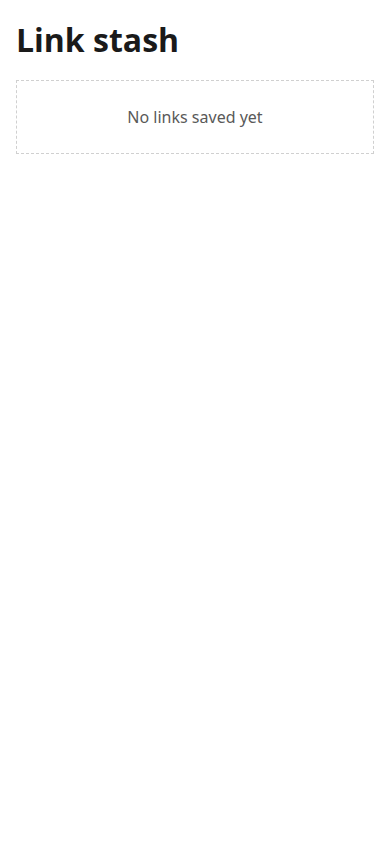
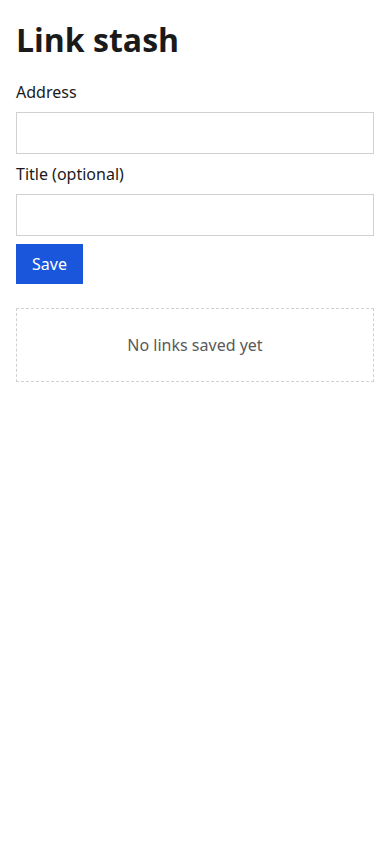
feat: save a link from a form and list it (#8)

diff --git a/public/app.js b/public/app.js
@@ -1,6 +1,59 @@
-const res = await fetch('/api/links');
-const {count} = await res.json();
-if (count > 0) {
-  document.getElementById('empty').hidden = true;
-  document.getElementById('links').hidden = false;
+const form = document.getElementById('form');
+const urlInput = document.getElementById('url');
+const titleInput = document.getElementById('title');
+const saveButton = document.getElementById('save');
+const urlError = document.getElementById('url-error');
+const empty = document.getElementById('empty');
+const list = document.getElementById('links');
+
+function render(links) {
+  empty.hidden = links.length > 0;
+  list.hidden = links.length === 0;
+  list.replaceChildren(
+    ...links.map((link) => {
+      const item = document.createElement('li');
+      const anchor = document.createElement('a');
+      anchor.href = link.url;
+      anchor.textContent = link.title || link.url;
+      anchor.rel = 'noopener noreferrer';
+      item.append(anchor);
+      return item;
+    }),
+  );
 }
+
+function showError(message) {
+  urlError.textContent = message;
+  urlError.hidden = !message;
+  urlInput.setAttribute('aria-invalid', message ? 'true' : 'false');
+}
+
+async function load() {
+  const res = await fetch('/api/links');
+  render((await res.json()).links);
+}
+
+form.addEventListener('submit', async (event) => {
+  event.preventDefault();
+  showError('');
+  saveButton.disabled = true;
+  try {
+    const res = await fetch('/api/links', {
+      method: 'POST',
+      headers: {'content-type': 'application/json'},
+      body: JSON.stringify({url: urlInput.value, title: titleInput.value}),
+    });
+    if (!res.ok) {
+      showError((await res.json()).error);
+      return;
+    }
+    form.reset();
+    await load();
+  } catch {
+    showError('Could not save the link. Try again.');
+  } finally {
+    saveButton.disabled = false;
+  }
+});
+
+await load();

diff --git a/src/app.test.ts b/src/app.test.ts
@@ -11,9 +11,43 @@ test('health returns ok', async () => {
   expect(await res.json()).toEqual({ok: true});
 });
 
-test('links reports the stored count', async () => {
-  const res = await get('/api/links');
-  expect(await res.json()).toEqual({count: 0});
+const post = (db: ReturnType<typeof openDatabase>, body: unknown) =>
+  handle(
+    new Request('http://test/api/links', {
+      method: 'POST',
+      headers: {'content-type': 'application/json'},
+      body: typeof body === 'string' ? body : JSON.stringify(body),
+    }),
+    db,
+  );
+const list = async (db: ReturnType<typeof openDatabase>) =>
+  (await (await handle(new Request('http://test/api/links'), db)).json()) as {links: {url: string; title: string}[]};
+
+test('links starts empty', async () => {
+  expect(await (await get('/api/links')).json()).toEqual({links: []});
+});
+
+test('a saved link is listed newest first', async () => {
+  const db = openDatabase(':memory:');
+  const res = await post(db, {url: 'https://a.example', title: 'A'});
+  expect(res.status).toBe(201);
+  expect(await res.json()).toMatchObject({url: 'https://a.example', title: 'A'});
+  await post(db, {url: 'https://b.example'});
+  expect((await list(db)).links.map((l) => l.url)).toEqual(['https://b.example', 'https://a.example']);
+});
+
+test('an invalid address is refused and nothing is stored', async () => {
+  const db = openDatabase(':memory:');
+  for (const body of [{url: 'ftp://x.example'}, {url: ''}, 'not json']) {
+    const res = await post(db, body);
+    expect(res.status).toBe(400);
+    expect(await res.json()).toMatchObject({field: 'url'});
+  }
+  expect((await list(db)).links).toEqual([]);
+});
+
+test('other methods on links are rejected', async () => {
+  expect((await get('/api/links', 'DELETE')).status).toBe(405);
 });
 
 test('unknown api paths are 404', async () => {

diff --git a/src/app.ts b/src/app.ts
@@ -1,6 +1,7 @@
 import type {Database} from 'bun:sqlite';
 import {health} from './health';
-import {countLinks} from './storage';
+import {validateLink} from './links';
+import {addLink, listLinks} from './storage';
 
 const publicDir = new URL('../public/', import.meta.url);
 
@@ -8,9 +9,17 @@ const json = (body: unknown, status = 200): Response => Response.json(body, {sta
 
 export async function handle(req: Request, db: Database): Promise<Response> {
   const {pathname} = new URL(req.url);
+  if (pathname === '/api/links') {
+    if (req.method === 'GET') return json({links: listLinks(db)});
+    if (req.method === 'POST') {
+      const result = validateLink(await req.json().catch(() => null));
+      if (!result.ok) return json({error: result.message, field: result.field}, 400);
+      return json(addLink(db, result.value.url, result.value.title), 201);
+    }
+    return json({error: 'method not allowed'}, 405);
+  }
   if (req.method !== 'GET') return json({error: 'method not allowed'}, 405);
   if (pathname === '/api/health') return json(health());
-  if (pathname === '/api/links') return json({count: countLinks(db)});
   if (pathname.startsWith('/api/')) return json({error: 'not found'}, 404);
 
   const name = pathname === '/' ? 'index.html' : pathname.slice(1);

diff --git a/src/storage.test.ts b/src/storage.test.ts
@@ -1,5 +1,5 @@
 import {expect, test} from 'bun:test';
-import {countLinks, migrate, openDatabase} from './storage';
+import {addLink, countLinks, listLinks, migrate, openDatabase} from './storage';
 
 test('opens an in-memory database with the schema migrated', () => {
   const db = openDatabase(':memory:');
@@ -14,4 +14,18 @@ test('migrating twice leaves the schema and data alone', () => {
   migrate(db);
   expect(countLinks(db)).toBe(1);
   expect((db.query('PRAGMA user_version').get() as {user_version: number}).user_version).toBe(1);
+});
+
+test('records stored before carry forward unchanged', () => {
+  const db = openDatabase(':memory:');
+  db.run("INSERT INTO links (url, title, created_at) VALUES ('https://old.example', 'Old', '2026-01-01 00:00:00')");
+  migrate(db);
+  expect(listLinks(db)).toEqual([{id: 1, url: 'https://old.example', title: 'Old', created_at: '2026-01-01 00:00:00'}]);
+});
+
+test('lists newest first', () => {
+  const db = openDatabase(':memory:');
+  addLink(db, 'https://a.example', '');
+  addLink(db, 'https://b.example', 'B');
+  expect(listLinks(db).map((l) => l.url)).toEqual(['https://b.example', 'https://a.example']);
 });

diff --git a/src/links.test.ts b/src/links.test.ts
@@ -1,0 +1,25 @@
+import {expect, test} from 'bun:test';
+import {validateLink} from './links';
+
+test('accepts http and https and trims', () => {
+  expect(validateLink({url: ' https://example.com/a ', title: ' T '})).toEqual({
+    ok: true,
+    value: {url: 'https://example.com/a', title: 'T'},
+  });
+  expect(validateLink({url: 'http://example.com'})).toEqual({
+    ok: true,
+    value: {url: 'http://example.com', title: ''},
+  });
+});
+
+test.each([[{url: 'ftp://example.com'}], [{url: 'javascript:alert(1)'}], [{url: 'example.com'}], [{url: ''}], [{}], [null], [{url: 5}]])(
+  'refuses %p naming the url field',
+  (body) => {
+    const r = validateLink(body);
+    expect(r.ok).toBe(false);
+    if (!r.ok) {
+      expect(r.field).toBe('url');
+      expect(r.message).toContain('url');
+    }
+  },
+);

diff --git a/src/links.ts b/src/links.ts
@@ -1,0 +1,22 @@
+export interface LinkInput {
+  url: string;
+  title: string;
+}
+
+export type Validation = {ok: true; value: LinkInput} | {ok: false; field: 'url' | 'title'; message: string};
+
+export function validateLink(body: unknown): Validation {
+  const raw = (body ?? {}) as Record<string, unknown>;
+  const url = typeof raw.url === 'string' ? raw.url.trim() : '';
+  const title = typeof raw.title === 'string' ? raw.title.trim() : '';
+  let parsed: URL | null = null;
+  try {
+    parsed = new URL(url);
+  } catch {
+    parsed = null;
+  }
+  if (!parsed || (parsed.protocol !== 'http:' && parsed.protocol !== 'https:')) {
+    return {ok: false, field: 'url', message: 'url must be an http or https address'};
+  }
+  return {ok: true, value: {url, title}};
+}

diff --git a/public/style.css b/public/style.css
@@ -19,3 +19,30 @@ h1 { margin: 0 0 1rem; }
   color: var(--color-muted);
   text-align: center;
 }
+
+form { display: grid; gap: 0.5rem; margin-bottom: 1.5rem; }
+
+input {
+  padding: 0.5rem;
+  font: inherit;
+  color: var(--color-text);
+  background: var(--color-bg);
+  border: 1px solid var(--color-border);
+}
+
+button {
+  justify-self: start;
+  padding: 0.5rem 1rem;
+  font: inherit;
+  color: var(--color-bg);
+  background: var(--color-accent);
+  border: 0;
+}
+
+button:disabled { opacity: 0.6; }
+
+.error { margin: 0; color: var(--color-text); font-weight: 600; }
+
+ul { padding: 0; list-style: none; }
+li { padding: 0.5rem 0; border-bottom: 1px solid var(--color-border); overflow-wrap: anywhere; }
+a { color: var(--color-accent); }

diff --git a/src/storage.ts b/src/storage.ts
@@ -28,3 +28,20 @@ export function openDatabase(path: string): Database {
 export function countLinks(db: Database): number {
   return (db.query('SELECT COUNT(*) AS n FROM links').get() as {n: number}).n;
 }
+
+export interface Link {
+  id: number;
+  url: string;
+  title: string;
+  created_at: string;
+}
+
+export function addLink(db: Database, url: string, title: string): Link {
+  return db
+    .query('INSERT INTO links (url, title) VALUES (?, ?) RETURNING id, url, title, created_at')
+    .get(url, title) as Link;
+}
+
+export function listLinks(db: Database): Link[] {
+  return db.query('SELECT id, url, title, created_at FROM links ORDER BY id DESC').all() as Link[];
+}

diff --git a/public/index.html b/public/index.html
@@ -10,6 +10,14 @@
 <body>
   <main>
     <h1>Link stash</h1>
+    <form id="form" novalidate>
+      <label for="url">Address</label>
+      <input id="url" name="url" type="url" required autocomplete="off" aria-describedby="url-error">
+      <p id="url-error" class="error" role="alert" hidden></p>
+      <label for="title">Title (optional)</label>
+      <input id="title" name="title" type="text" autocomplete="off">
+      <button id="save" type="submit">Save</button>
+    </form>
     <p id="empty" class="empty">No links saved yet</p>
     <ul id="links" hidden></ul>
   </main>

diff --git a/README.md b/README.md
@@ -6,6 +6,14 @@ A sample product built by the forger work loop: owner requests are GitHub issues
 labelled `ready-for-agent`, the loop builds each one on its own branch, and a PR
 merges only when the gates in `.forger/workloop.config.json` and CI pass.
 
+## What it does
+
+- Save a link from the form on `/`: an address (http or https only) and an optional title. The newest link is listed first, and links persist across restarts.
+- `POST /api/links` with `{"url", "title"}` stores a link and answers 201; an invalid address answers 400 with `{"error", "field"}`. `GET /api/links` returns `{"links": [...]}`, newest first.
+
+![Empty list](docs/screenshots/index-desktop-light.png)
+![Full list](docs/screenshots/index-full-desktop-light.png)
+
 ## Develop
 
 ```
